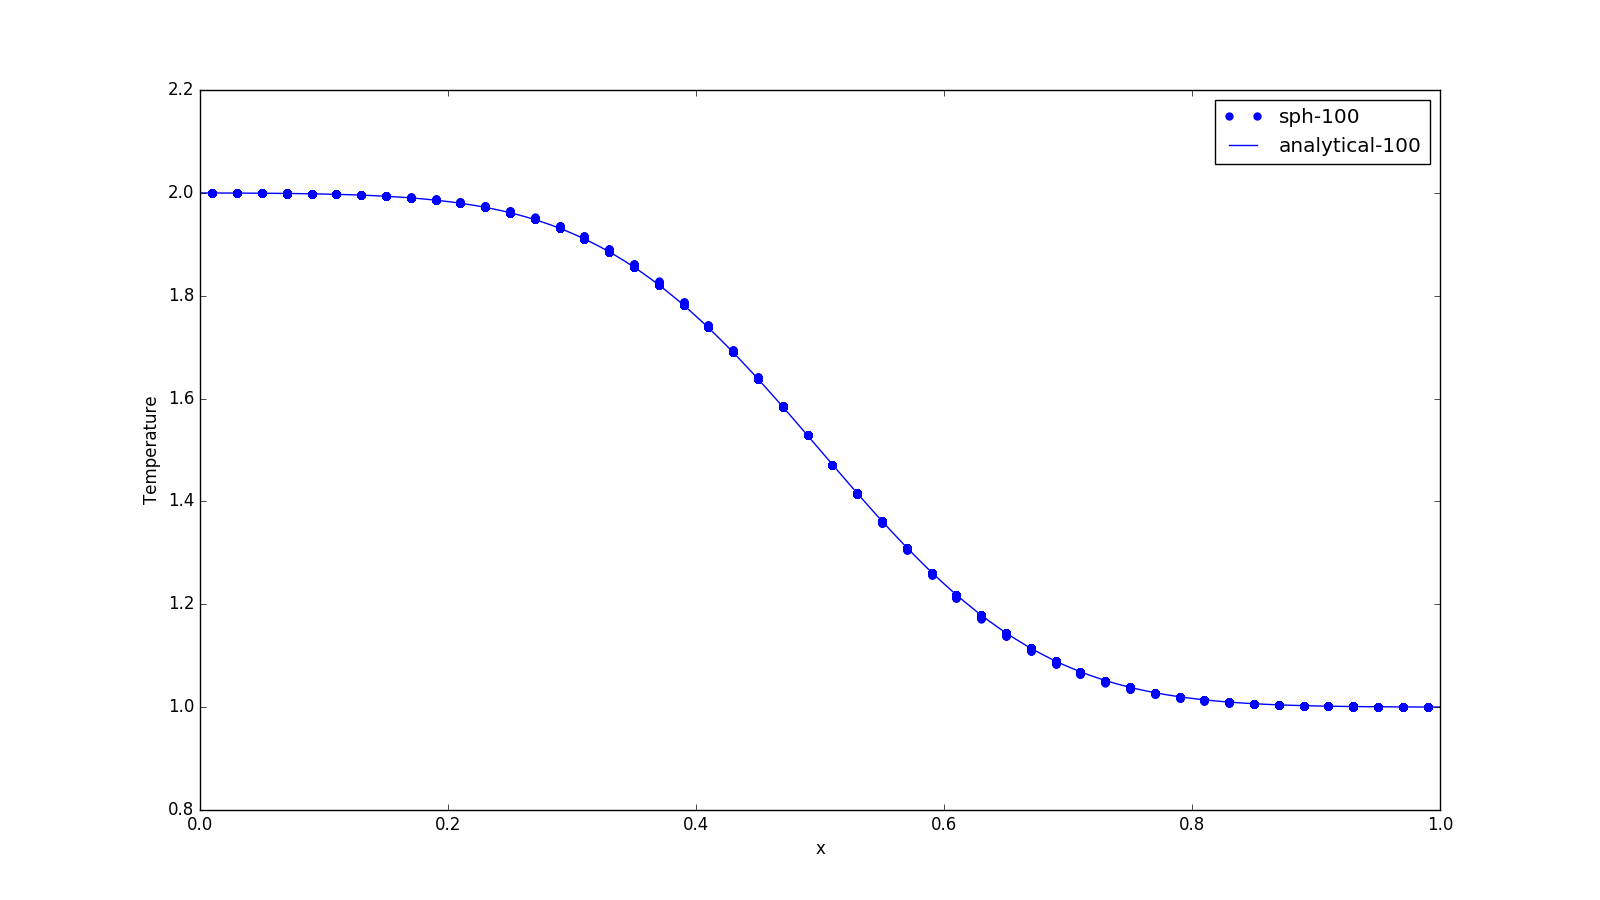
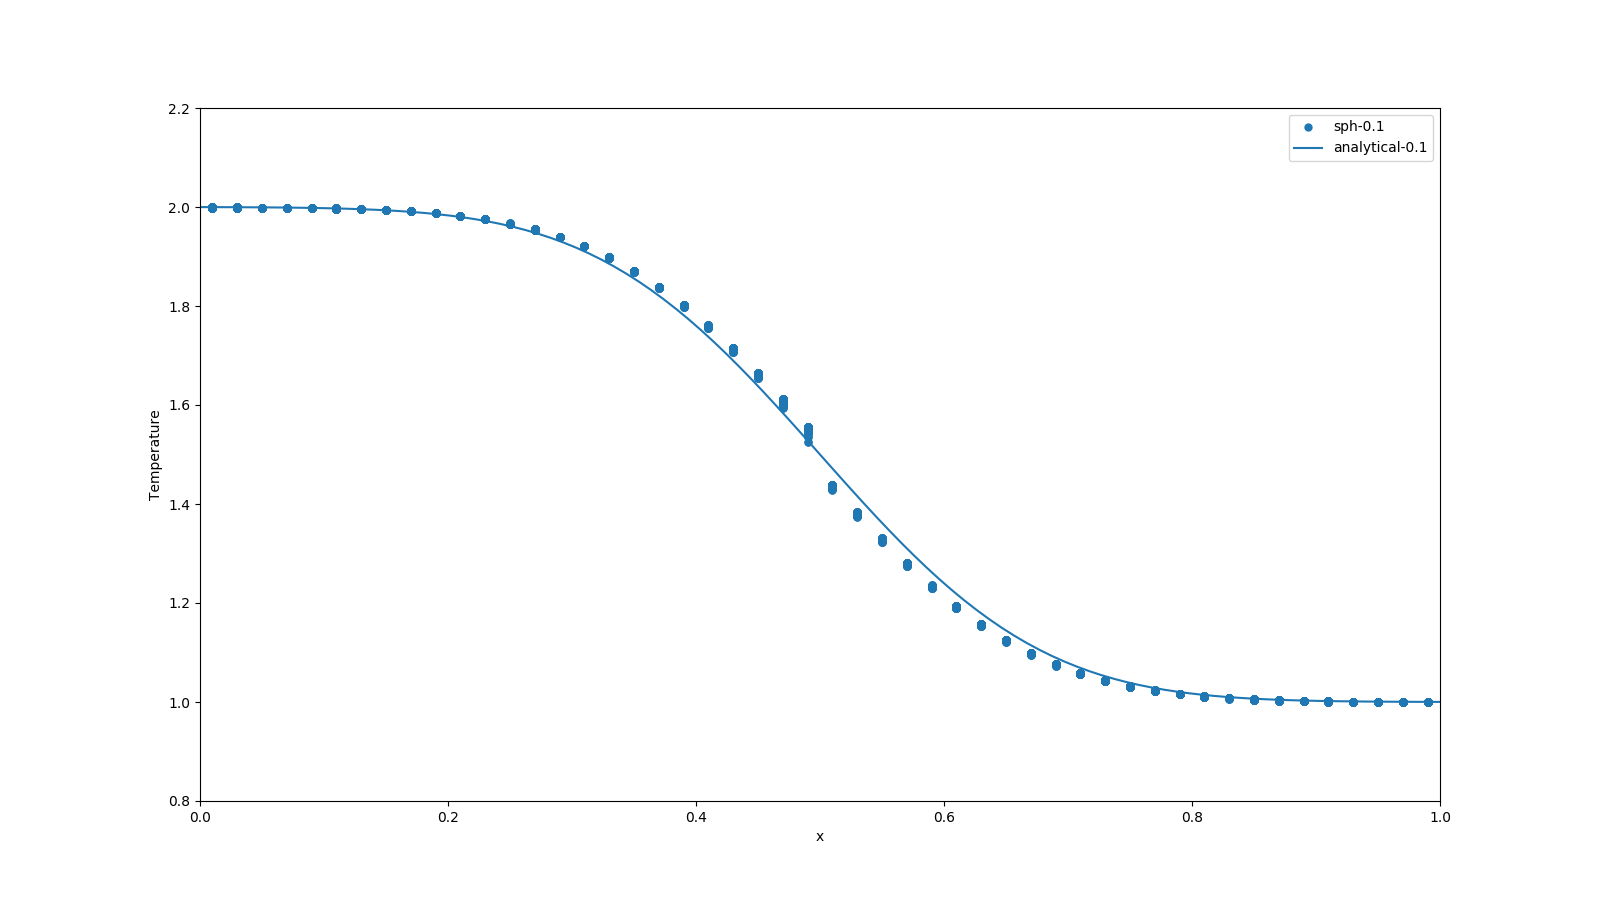
Higher time step

diff --git a/multiphase_concentration_diffusion/plot_graph.py b/multiphase_concentration_diffusion/plot_graph.py
@@ -4,7 +4,7 @@ import matplotlib.pyplot as plt
 import itertools
 
 # parameters
-alpha = 1.0e-4
+alpha = 0.1
 K = 0.0e-4
 el    = 2.0
 er    = 1.0
@@ -15,7 +15,7 @@ Lx = 1.0
 xc = 0.5*Lx
 
 # Time series
-T = [100]
+T = [0.1]
 
 # plot
 plt.figure(figsize=(16, 9))
